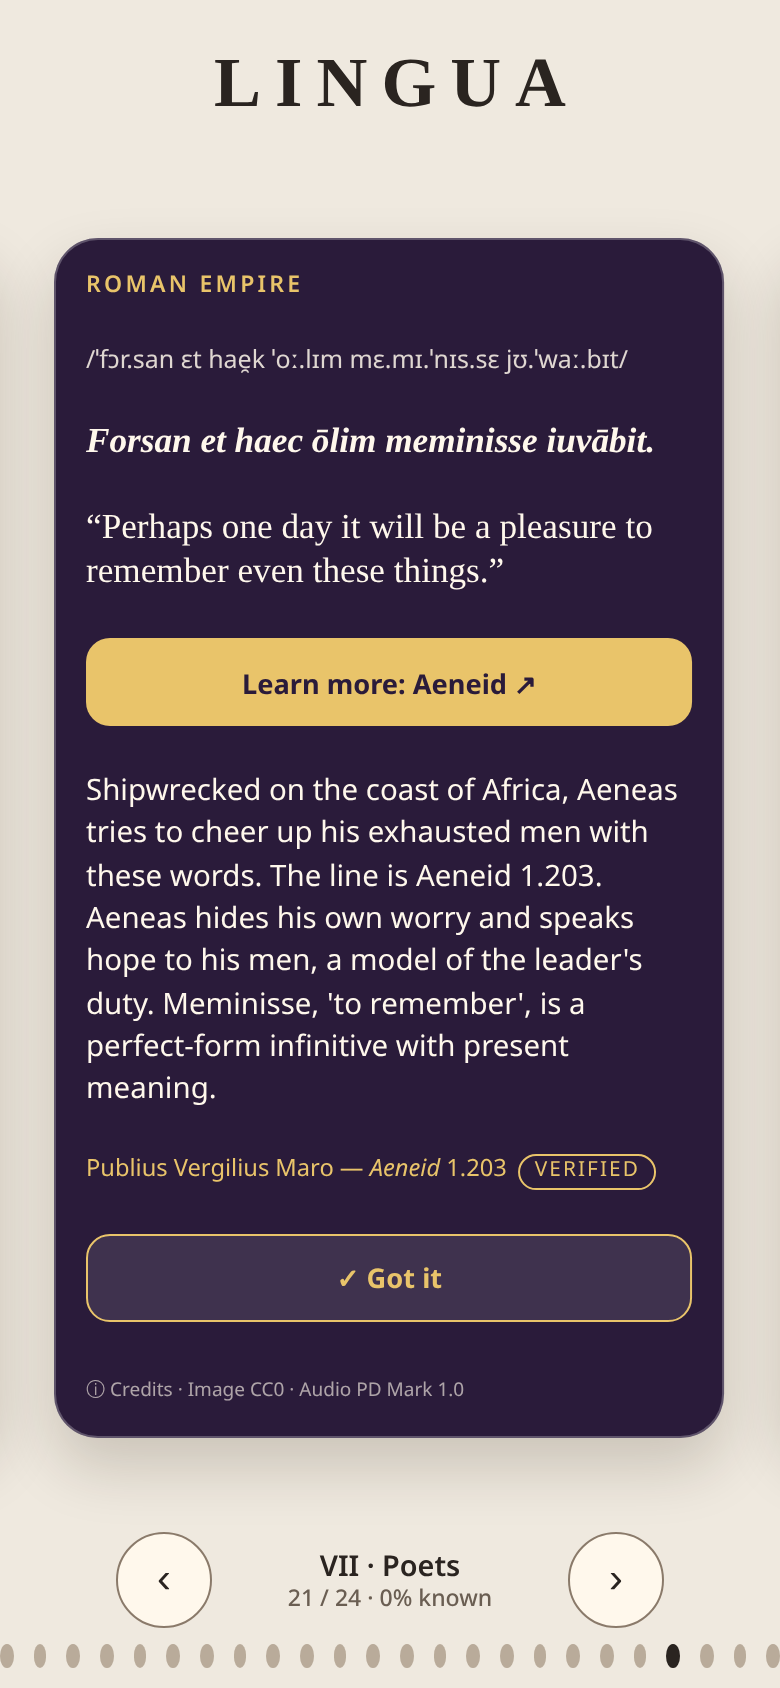
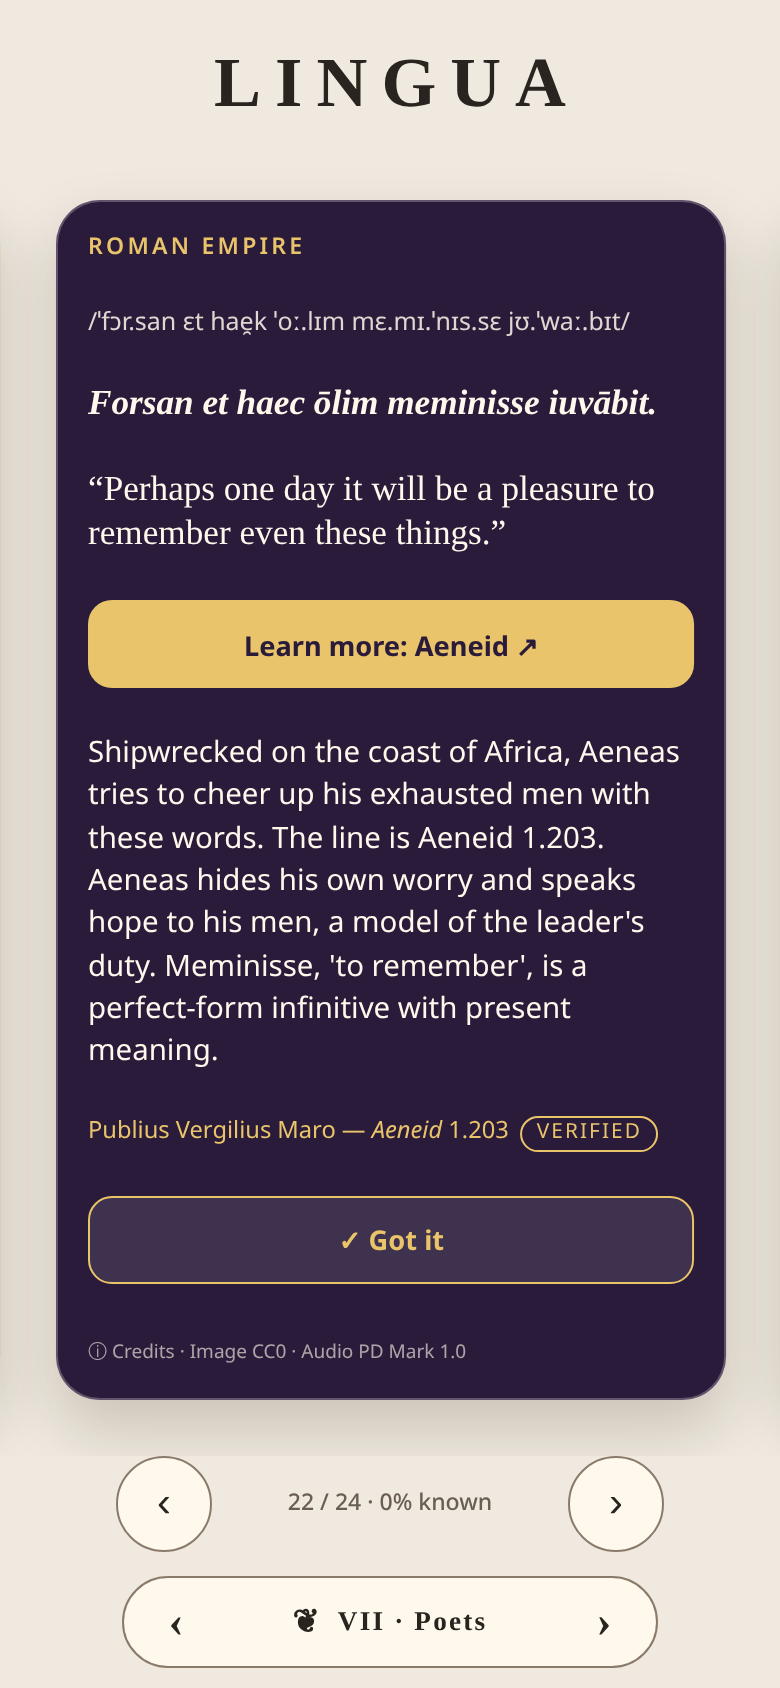
White section pill with arrows, all sections unlocked, centered progress

diff --git a/cards/index.html b/cards/index.html
@@ -137,11 +137,20 @@ header p{margin:4px 0 0;font-size:.85rem;color:#5a5048}
 .ring{flex:none;width:38px;height:38px;border-radius:50%;display:grid;place-items:center;background:conic-gradient(var(--acc) calc(var(--p)*1%),rgba(255,255,255,.18) 0);font:700 .8rem Georgia,serif}
 .ring i{width:30px;height:30px;border-radius:50%;background:var(--bg2);display:grid;place-items:center;font-style:normal}
 .sheet .tip{font-size:.72rem;color:#6a5e52;text-align:center;margin:10px 0 0}
+.dots{display:none!important}
+.nav{padding:0 0 12px!important}
+.secbar{flex:none;display:flex;justify-content:center;align-items:center;gap:10px;padding:0 0 calc(env(safe-area-inset-bottom) + 10px)}
+.secbar button{min-height:44px;border:1px solid #8a7a6a;background:#fff8ec;color:var(--ink);cursor:pointer;font:600 .85rem Georgia,serif}
+.grp{display:inline-flex;align-items:center;background:#fff8ec;border:1px solid #8a7a6a;border-radius:99px;padding:0 4px}
+.grp button{background:none!important;border:0!important;color:var(--ink)!important}
+#psec,#nsec{min-width:44px;font-size:1.4rem;line-height:1}
+#pill{display:inline-flex;align-items:center;gap:8px;padding:0 10px;min-width:170px;justify-content:center;border-radius:99px;letter-spacing:.08em}
+#pill .lau{font-size:1rem}
 </style></head><body>
 <header><h1 id="logo" role="button" tabindex="0" aria-label="Lingua: choose a section">LINGUA</h1></header>
 <main class="deck" id="deck" aria-label="Cards"></main>
-<nav class="nav" aria-label="Card navigation"><button id="prev" aria-label="Previous card">‹</button><button id="sec" aria-label="Choose section"><span id="secname"></span><small id="count" aria-live="polite"></small></button><button id="next" aria-label="Next card">›</button></nav><nav class="dots" id="dots" hidden></nav>
-<div class="sheet" id="sheet" hidden><div class="pane" role="dialog" aria-label="Sections"><h2>SECTIONS</h2><div class="path" id="path"></div><p class="tip">Finish a section (mark every card “Got it”) to unlock the next. Long-press a locked section to open it anyway.</p></div></div>
+<nav class="nav" aria-label="Card navigation"><button id="prev" aria-label="Previous card">‹</button><button id="sec" aria-label="Choose section"><small id="count" aria-live="polite"></small></button><button id="next" aria-label="Next card">›</button></nav><nav class="dots" id="dots" hidden></nav><nav class="secbar" aria-label="Sections"><span class="grp"><button id="psec" aria-label="Previous section">‹</button><button id="pill" aria-label="Open sections"><span class="lau" aria-hidden="true">❦</span><span id="pilln"></span></button><button id="nsec" aria-label="Next section">›</button></span></nav>
+<div class="sheet" id="sheet" hidden><div class="pane" role="dialog" aria-label="Sections"><h2>SECTIONS</h2><div class="path" id="path"></div><p class="tip">Move freely between sections. Rings show how many cards you’ve marked “Got it”.</p></div></div>
 <script src="cards.js"></script>
 <script src="phonetics.js"></script>
 <script>
@@ -251,7 +260,7 @@ function setupDots(){dots.innerHTML=VIS().map((c,i)=>`<button aria-label="Card $
 dots.onclick=e=>{const b=e.target.closest("button");if(b)document.getElementById("card-"+b.dataset.i).scrollIntoView({behavior:"smooth",inline:"center",block:"nearest"})};
 function cur(){const r=deck.getBoundingClientRect(),mid=r.left+r.width/2;let best=0,d=1e9;
  document.querySelectorAll(".card").forEach((c,i)=>{const b=c.getBoundingClientRect(),x=Math.abs(b.left+b.width/2-mid);if(x<d){d=x;best=i}});
- curI=best;const U=UNITS[SEC-1];document.getElementById("secname").textContent=`${U[0]} · ${U[2]}`;document.getElementById("count").textContent=`${best+1} / ${VIS().length} · ${Math.round(prog(SEC)*100)}% known`;dots.querySelectorAll("button").forEach((b,i)=>b.setAttribute("aria-current",i===best))}
+ curI=best;const U=UNITS[SEC-1];document.getElementById("pilln").textContent=`${U[0]} · ${U[2]}`;document.getElementById("count").textContent=`${best+1} / ${VIS().length} · ${Math.round(prog(SEC)*100)}% known`;dots.querySelectorAll("button").forEach((b,i)=>b.setAttribute("aria-current",i===best))}
 deck.addEventListener("scroll",cur,{passive:true});
 let showDrafts=/[?&]draft=1/.test(location.search);
 const repoPath=src=>/^(https?:|data:)/.test(src)?null:(src.startsWith("../")?src.slice(3):"cards/"+src);
@@ -263,7 +272,7 @@ const saveKN=()=>localStorage.setItem("lingua.known",JSON.stringify([...KN]));
 let SEC=+localStorage.getItem("lingua.section")||1, ORDER={};
 const inSec=u=>CARDS.filter(c=>(showDrafts||!c._draft)&&unitOf(c)===u);
 const prog=u=>{const a=inSec(u);return a.length?a.filter(c=>KN.has(c.id)).length/a.length:0};
-const unlocked=u=>u===1||prog(u-1)>=1||localStorage.getItem("lingua.open."+u)==="1";
+const unlocked=u=>true;
 const shuffle=a=>{a=a.slice();for(let i=a.length-1;i>0;i--){const j=Math.random()*(i+1)|0;[a[i],a[j]]=[a[j],a[i]]}return a};
 const VIS=()=>{if(!ORDER[SEC])ORDER[SEC]=shuffle(inSec(SEC));return ORDER[SEC]};
 function setSec(u){SEC=u;localStorage.setItem("lingua.section",u);sheet.hidden=true;render();deck.scrollLeft=0;cur()}
@@ -275,7 +284,7 @@ function openSheet(){const P=document.getElementById("path");P.innerHTML=UNITS.m
   b.addEventListener("pointerdown",start);["pointerup","pointerleave","pointercancel"].forEach(e=>b.addEventListener(e,stop));b.oncontextmenu=e=>e.preventDefault();});
  sheet.hidden=false}
 sheet.onclick=e=>{if(e.target===sheet)sheet.hidden=true};
-document.getElementById("logo").onclick=openSheet;document.getElementById("sec").onclick=openSheet;
+document.getElementById("logo").onclick=openSheet;document.getElementById("pill").onclick=openSheet;document.getElementById("psec").onclick=()=>setSec(SEC>1?SEC-1:10);document.getElementById("nsec").onclick=()=>setSec(SEC<10?SEC+1:1);document.getElementById("sec").onclick=openSheet;
 document.getElementById("logo").onkeydown=e=>{if(e.key==="Enter"||e.key===" "){e.preventDefault();openSheet()}};
 function go(d){const n=VIS().length;let i=Math.max(0,Math.min(n-1,curI+d));const el=document.getElementById("card-"+i);if(el)el.scrollIntoView({behavior:"smooth",inline:"center",block:"nearest"})}
 let curI=0;

diff --git a/cards/shot_mobile.py b/cards/shot_mobile.py
@@ -20,5 +20,5 @@ with sync_playwright() as p:
         pg.screenshot(path=O+f"{W}-back-{cid}.png")
     for cid in ["x-map-roma","q-ovid-urbis","q-virgil-forsan","q-bede-sparrow","r-vulg-genesis-1-5","i-rib-regina"]: shot(cid)
     pg.goto(U); pg.wait_for_timeout(1500); pg.evaluate("localStorage.clear();localStorage.setItem('lingua.known',JSON.stringify(CARDS.filter(c=>unitOf(c)===1).map(c=>c.id).concat(CARDS.filter(c=>unitOf(c)===2).slice(0,3).map(c=>c.id))))"); pg.goto(U); pg.wait_for_timeout(1200)
-    pg.screenshot(path=O+f"{W}-home.png"); pg.click("#logo"); pg.wait_for_timeout(300); pg.screenshot(path=O+f"{W}-sections.png")
+    pg.screenshot(path=O+f"{W}-home.png"); pg.click("#nsec"); pg.wait_for_timeout(400); pg.screenshot(path=O+f"{W}-home-next.png"); pg.click("#logo"); pg.wait_for_timeout(300); pg.screenshot(path=O+f"{W}-sections.png")
     b.close()
